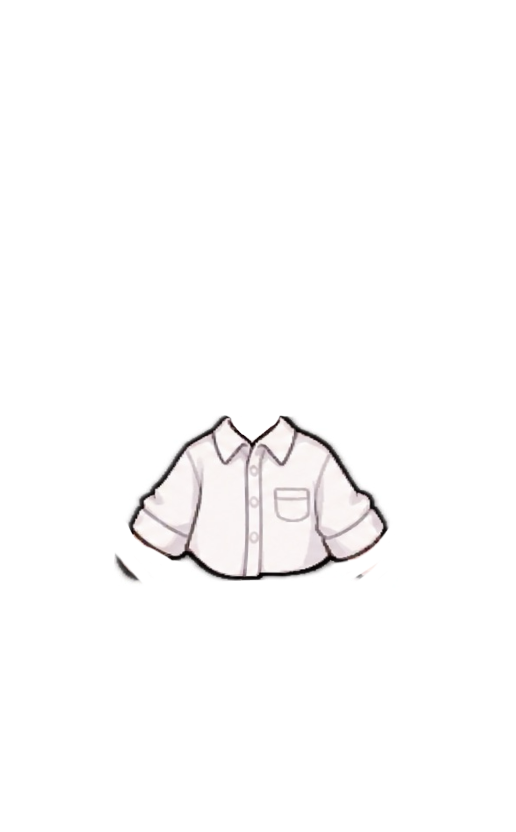
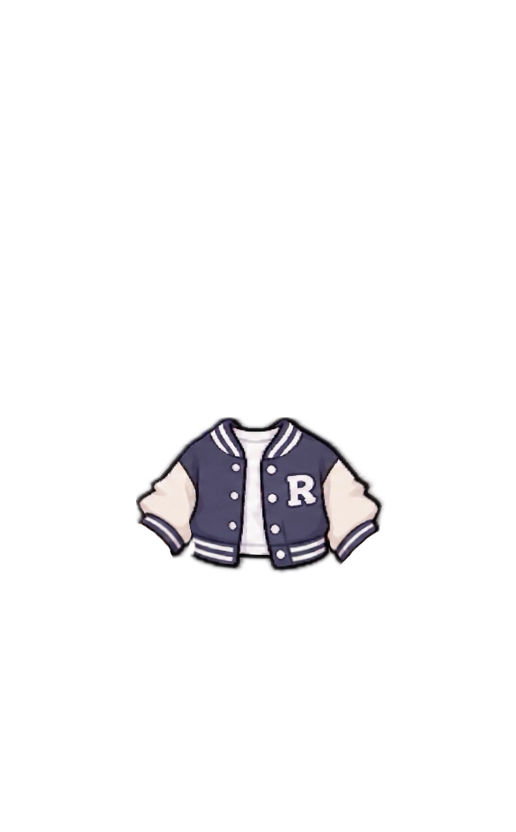
기본 흰 셔츠를 선생님이 그린 셔츠로 바꿈(옛 셔츠 지움) / '장신구' 칸 새로: 무지개 별 날개·공룡 꼬리(몸 뒤), 리본 망토(상의 위) / 신발 2개(흰·하늘 리본 운동화)
Claude-Session: https://claude.ai/code/session_015VxnKS3baGbwJXJNNp74ix

Changed region(s): [[0.2481, 0.5, 0.7752, 0.7188], [0.2481, 0.6875, 0.2791, 0.7188], [0.2171, 0.6562, 0.2481, 0.6875]]

diff --git a/avatar.js b/avatar.js
@@ -12,32 +12,35 @@ const AV_NAMES = {
   hair: ["앞머리 양 똥머리", "앞머리 똥머리", "어깨 웨이브", "양 갈래 머리", "앞머리 단발", "가르마 짧은 머리", "쉼표 머리", "앞머리 긴 웨이브", "삐죽 머리", "곱슬 머리", "올린 삐죽 머리", "옆 가르마 머리", "산타 모자", "상어 모자", "양 갈래 땋은 머리", "양 갈래 웨이브", "까까머리", "긴 생머리", "앞머리 웨이브", "부스스 머리", "번개 스포츠머리", "레게 머리", "울프컷", "모히칸"],
   top: ["세일러 블라우스", "크림 후드티", "검정 재킷", "분홍 가디건", "고양이 후드티", "흰 셔츠", "곰돌이 니트", "검정 프릴 블라우스", "줄무늬 티", "하얀 패딩", "빨간 망토", "카키 야상", "멜빵 원피스", "검정 후드티", "레이스 블라우스", 
     "검정 도복", "가죽 재킷", "산타 옷", "산타 원피스", "요정 옷", "눈사람 옷", "진저브레드 옷", "루돌프 옷", "트리 스웨터 잠옷", "호두까기 인형 옷", "의사 가운 세트", "요리사 세트", "멜빵바지 세트", "승무원 세트", "기장 세트", 
-    "가디건 세트", "흰 가운 세트", "흰 도복 세트", "빨간 로봇 슈트", "소방관 옷", "우주인 점퍼", "군복 셔츠", "요리사 옷", "경찰 제복", "의사 가운", "야구 유니폼", "탐험가 셔츠", "승무원 재킷", "갈색 가디건", "컵케이크 앞치마", "검정 도복 세트", "농구 유니폼", "공룡 잠옷", "소방관 세트", "경찰 세트", "레이싱 슈트", "조종사 슈트", "우주복", "하트 꽈배기 가디건", "체크 교복 재킷", "민트 꽃 블라우스", "보라 별 가디건", "분홍 하트 재킷", "백설 공주 옷", "얼음 공주 옷", "세일러 교복", "흰 패딩", "곰돌이 스웨터", "하늘 줄무늬 티", "흰 셔츠 새것", "남색 야구 점퍼"],
-  shoes: ["맨발", "검정 운동화", "카모 운동화", "파랑 하이탑", "빨강 농구화", "별 운동화", "공룡 발 슬리퍼", "체크 슬립온", "축구화", "검정 로퍼", "토끼 슬리퍼", "갈색 메리제인", "하늘 실내화", "민트 하이탑", "산타 부츠", "분홍 하이탑", "병아리 슬리퍼", "털 부츠", "곰돌이 슬리퍼", "흰 카우보이 부츠", "분홍 장화", "검정 워커", "분홍 캔버스화", "하늘 리본 구두", "보라 리본 구두"],
+    "가디건 세트", "흰 가운 세트", "흰 도복 세트", "빨간 로봇 슈트", "소방관 옷", "우주인 점퍼", "군복 셔츠", "요리사 옷", "경찰 제복", "의사 가운", "야구 유니폼", "탐험가 셔츠", "승무원 재킷", "갈색 가디건", "컵케이크 앞치마", "검정 도복 세트", "농구 유니폼", "공룡 잠옷", "소방관 세트", "경찰 세트", "레이싱 슈트", "조종사 슈트", "우주복", "하트 꽈배기 가디건", "체크 교복 재킷", "민트 꽃 블라우스", "보라 별 가디건", "분홍 하트 재킷", "백설 공주 옷", "얼음 공주 옷", "세일러 교복", "흰 패딩", "곰돌이 스웨터", "하늘 줄무늬 티", "남색 야구 점퍼"],
+  shoes: ["맨발", "검정 운동화", "카모 운동화", "파랑 하이탑", "빨강 농구화", "별 운동화", "공룡 발 슬리퍼", "체크 슬립온", "축구화", "검정 로퍼", "토끼 슬리퍼", "갈색 메리제인", "하늘 실내화", "민트 하이탑", "산타 부츠", "분홍 하이탑", "병아리 슬리퍼", "털 부츠", "곰돌이 슬리퍼", "흰 카우보이 부츠", "분홍 장화", "검정 워커", "분홍 캔버스화", "하늘 리본 구두", "보라 리본 구두", "흰 리본 운동화", "하늘 리본 운동화"],
   eye: ["기본 눈", "날렵한 눈", "졸린 눈", "웃는 눈", "윙크", "반짝 눈", "울먹 눈", "화난 눈", "옆 보는 눈", "걱정 눈", "놀란 눈", "시큰둥 눈", "하트 눈", "빙글빙글 눈", "속눈썹 눈", "점 눈", "초롱 눈", "울먹 초롱 눈", "질끈 눈", "웃는 초롱 눈", "초롱 윙크", "졸린 초롱 눈"],
   cheek: ["볼터치 없음", "볼 정중앙", "콧잔등 + 주근깨", "볼 정중앙 + 주근깨", "빗금 볼터치", "작은 동그라미", "콧잔등", "크게 발그레"],
   mouth: ["미소", "활짝 웃는 입", "고양이 입", "작은 입", "시무룩 입", "삐뚤 입", "씩 웃는 입", "메롱", "이 보이게 웃기", "놀란 입", "뽀뽀 입", "일자 입", "송곳니 웃음", "울먹 입", "크게 웃는 입", "쪽 입", "살짝 미소", "삐죽 입"],
   bottom: ["하늘 주름치마", "검정 주름치마", "베이지 반바지", "청반바지", "검정 카고 바지", "회색 운동복 바지", "남색 트레이닝 바지", "분홍 체크 치마", "카키 반바지", "체인 치마", "체크 바지", "연청 반바지", "베이지 카고 반바지", 
     "빨간 운동 반바지", "남색 치마", "체크무늬 반바지", "회색 반바지", "줄무늬 야구 반바지", "물감 청반바지", "갈색 리본 치마", "검정 하트 주름치마", "하늘 주름치마 새것", "베이지 끈 반바지", "별 청반바지", "검정 카고 조거", "회색 트레이닝 바지"],
 };
+AV_NAMES.acc = ["장신구 없음", "무지개 별 날개", "리본 망토", "공룡 꼬리"]; // acc-0은 그림 없음
 AV_NAMES.pet = ["펫 없음", "강아지", "삼색 고양이", "토끼", "햄스터", "아기 펭귄", "아기 공룡", "날개 고양이", "아기 드래곤", "천사 별", "달 고양이", "꼬마 로봇", "불새",
   "루돌프", "눈사람", "트리", "진저브레드", "산타 강아지", "북극곰", "천사 종", "스웨터 펭귄"]; // pet-0은 그림 없음
 const AV_PRICE = { // 0이면 무료 (기본으로 입는 것)
+  acc: [0, 14, 12, 10],
   pet: [0, 12, 12, 12, 12, 12, 14, 16, 18, 16, 16, 18, 20, 14, 14, 14, 14, 15, 15, 16, 15],
   hair: [9, 8, 8, 8, 0, 6, 6, 8, 0, 8, 7, 6, 10, 10, 9, 9, 5, 8, 9, 7, 8, 9, 8, 8],
-  top: [8, 7, 9, 7, 9, 0, 8, 9, 0, 9, 10, 9, 9, 8, 10, 10, 11, 14, 14, 14, 13, 13, 13, 12, 14, 12, 12, 11, 12, 12, 10, 12, 11, 12, 10, 12, 9, 10, 10, 11, 10, 9, 10, 8, 9, 11, 9, 13, 12, 12, 13, 12, 14, 9, 11, 10, 9, 11, 12, 12, 10, 11, 9, 7, 6, 10],
-  shoes: [0, 0, 6, 6, 7, 6, 8, 6, 7, 6, 8, 7, 5, 6, 8, 6, 8, 9, 8, 9, 7, 9, 6, 7, 7],
+  top: [8, 7, 9, 7, 9, 0, 8, 9, 0, 9, 10, 9, 9, 8, 10, 10, 11, 14, 14, 14, 13, 13, 13, 12, 14, 12, 12, 11, 12, 12, 10, 12, 11, 12, 10, 12, 9, 10, 10, 11, 10, 9, 10, 8, 9, 11, 9, 13, 12, 12, 13, 12, 14, 9, 11, 10, 9, 11, 12, 12, 10, 11, 9, 7, 10],
+  shoes: [0, 0, 6, 6, 7, 6, 8, 6, 7, 6, 8, 7, 5, 6, 8, 6, 8, 9, 8, 9, 7, 9, 6, 7, 7, 6, 6],
   eye: Array(22).fill(0),
   mouth: Array(18).fill(0),
   cheek: Array(8).fill(0),
   bottom: [6, 6, 0, 0, 7, 6, 7, 7, 0, 8, 7, 6, 6, 6, 7, 8, 6, 8, 9, 7, 8, 6, 6, 7, 8, 7],
 };
 const AV_ITEMS = Object.entries(AV_NAMES).flatMap(([slot, names]) => names.map((name, i) => ({ id: `${slot}-${i}`, slot, name, price: AV_PRICE[slot][i], img: `av/${slot}-${i}.png` })));
-const AV_REQ = { pet: "pet-0", shoes: "shoes-1", eye: "eye-0", mouth: "mouth-0", cheek: "cheek-1", hair: "hair-8", top: "top-5", bottom: "bottom-8" }; // 기본 옷 (흰 셔츠·카키 반바지·민트 운동화). 이 칸들은 벗을 수 없어 늘 입고 있음
-const AV_ACC = []; // 장신구 칸 (아직 없음)
-const AV_TABS = [["eye", "눈"], ["mouth", "입"], ["cheek", "볼터치"], ["hair", "헤어"], ["top", "상의"], ["bottom", "하의"], ["full", "한벌"], ["shoes", "신발"], ["pet", "펫"]];
+const AV_REQ = { acc: "acc-0", pet: "pet-0", shoes: "shoes-1", eye: "eye-0", mouth: "mouth-0", cheek: "cheek-1", hair: "hair-8", top: "top-5", bottom: "bottom-8" }; // 기본 옷 (흰 셔츠(선생님이 그린 것)·카키 반바지·민트 운동화). 이 칸들은 벗을 수 없어 늘 입고 있음
+const AV_ACC = ["acc"]; // 장신구 칸
+const AV_BACK = new Set(["acc-1", "acc-3"]); // 몸보다 뒤에 그리는 장신구 (날개·꼬리). 나머지(망토)는 상의 위
+const AV_TABS = [["eye", "눈"], ["mouth", "입"], ["cheek", "볼터치"], ["hair", "헤어"], ["top", "상의"], ["bottom", "하의"], ["full", "한벌"], ["shoes", "신발"], ["acc", "장신구"], ["pet", "펫"]];
 const AV_FULL = new Set(["top-50","top-51","top-52","top-45","top-47","top-48","top-49","top-17","top-18","top-19","top-20","top-21","top-22","top-23","top-24","top-25","top-26","top-27","top-28","top-29","top-30","top-31","top-32"]); // 위아래 한 벌 옷: 입으면 하의를 안 그림. 가게에서는 '한벌' 칸
-const AV_V = "?v=39"; // 그림을 고치면 숫자를 올림 (브라우저에 남은 옛 그림 대신 새로 받게)
+const AV_V = "?v=40"; // 그림을 고치면 숫자를 올림 (브라우저에 남은 옛 그림 대신 새로 받게)
 const AV_HAT = new Set(["hair-12", "hair-13"]); // 모자·헬멧 (헤어 칸): 머리색을 안 칠함, 귀도 안 올림
 const AV_HIDE = new Set(["shoes-0"]); // 가게에 안 보이는 것 (맨발: 그림 없음)
 const avInTab = (it, k) => !AV_HIDE.has(it.id) && (k === "acc" ? AV_ACC.includes(it.slot) : k === "full" ? AV_FULL.has(it.id) : k === "top" ? it.slot === "top" && !AV_FULL.has(it.id) : it.slot === k); // 가게 칸에 보일 물건
@@ -51,7 +54,7 @@ const avWear = (wear = {}) => ({ ...AV_REQ, ...Object.fromEntries(Object.entries
 // av = { skin, hc(머리색 번호), cc(볼색 번호) }, wear = { pet, cheek, eye, mouth, hair, top, bottom } → 겹친 그림 (div 하나)
 // 처음 그릴 때 모든 그림을 미리 받아 풀어 둠: 색·옷을 바꿀 때 새 <img>가 잠깐 비었다가 뜨지 않게 (Image를 잡아 둬야 풀린 채로 남음)
 let avPre = null;
-const avPreload = () => avPre ||= [...AV_SKIN.map((_, i) => `av/base-${i}.png`), ...AV_ITEMS.filter(it => it.id !== "pet-0" && it.id !== "shoes-0").map(it => it.img), ...AV_ITEMS.filter(it => it.slot === "hair" && !AV_HAT.has(it.id)).map(it => it.img.replace(".png", "-g.png")), ...AV_FRECK.map(i => `av/cheek-${i}-f.png`), ...AV_SKIN.map((_, i) => `av/ear-${i}.png`)]
+const avPreload = () => avPre ||= [...AV_SKIN.map((_, i) => `av/base-${i}.png`), ...AV_ITEMS.filter(it => it.id !== "pet-0" && it.id !== "shoes-0" && it.id !== "acc-0").map(it => it.img), ...AV_ITEMS.filter(it => it.slot === "hair" && !AV_HAT.has(it.id)).map(it => it.img.replace(".png", "-g.png")), ...AV_FRECK.map(i => `av/cheek-${i}-f.png`), ...AV_SKIN.map((_, i) => `av/ear-${i}.png`)]
   .map(s => { const im = new Image(); im.src = s + AV_V; im.decode?.().catch(() => {}); return im; });
 function avPic(av, wear = {}) {
   avPreload();
@@ -61,5 +64,6 @@ function avPic(av, wear = {}) {
   const ck = avItem(w.cheek).img, cn = +w.cheek.split("-")[1];
   const cheekL = !cn ? "" : `<i style="background:${AV_CHEEK[cc][0]};-webkit-mask-image:url(${ck}${AV_V});mask-image:url(${ck}${AV_V})"></i>` + (AV_FRECK.includes(cn) ? img(ck.replace(".png", "-f.png")) : "");
   // .avp = 펫 칸(378×426), 그 안의 .avb = 아바타 칸(258×386, 위 40·왼쪽 60 띄움). 펫 그림은 펫 칸 크기
-  return `<div class="avp" aria-hidden="true"><div class="avb">${w.shoes !== "shoes-0" ? img(`av/base-${skin}.png`).replace("<img", '<img style="clip-path:inset(0 0 2.6% 0)"') : img(`av/base-${skin}.png`)}${cheekL}${w.shoes !== "shoes-0" ? img(avItem(w.shoes).img) : ""}${[avItem(w.eye).img, avItem(w.mouth).img, !AV_FULL.has(w.top) && avItem(w.bottom).img, avItem(w.top).img].filter(Boolean).map(img).join("")}${hairL}${AV_EAR.has(+w.hair.split("-")[1]) ? img(`av/ear-${skin}.png`) : ""}</div>${w.pet !== "pet-0" ? img(avItem(w.pet).img) : ""}</div>`;
+  const acc = w.acc !== "acc-0" && avItem(w.acc)?.img;
+  return `<div class="avp" aria-hidden="true"><div class="avb">${acc && AV_BACK.has(w.acc) ? img(acc) : ""}${w.shoes !== "shoes-0" ? img(`av/base-${skin}.png`).replace("<img", '<img style="clip-path:inset(0 0 2.6% 0)"') : img(`av/base-${skin}.png`)}${cheekL}${w.shoes !== "shoes-0" ? img(avItem(w.shoes).img) : ""}${[avItem(w.eye).img, avItem(w.mouth).img, !AV_FULL.has(w.top) && avItem(w.bottom).img, avItem(w.top).img, acc && !AV_BACK.has(w.acc) && acc].filter(Boolean).map(img).join("")}${hairL}${AV_EAR.has(+w.hair.split("-")[1]) ? img(`av/ear-${skin}.png`) : ""}</div>${w.pet !== "pet-0" ? img(avItem(w.pet).img) : ""}</div>`;
 }

diff --git a/index.html b/index.html
@@ -1668,7 +1668,7 @@
     <button class="danger" onclick="resetEverything()">모든 데이터 초기화</button>
   </section>
 </div>
-<script src="avatar.js?v=39"></script><!-- 아바타를 고치면 avatar.js의 AV_V와 같이 숫자를 올림 -->
+<script src="avatar.js?v=40"></script><!-- 아바타를 고치면 avatar.js의 AV_V와 같이 숫자를 올림 -->
 <script>
 setTimeout(() => document.body.classList.add("ready"), 2000); // 혹시 아래에서 오류가 나도 2초 뒤엔 카드를 보여 줌
 // 다른 창(듀얼 모니터)으로 뗀 카드: { 카드: { w: 창, c: 카드, mark: 보드에 돌아올 자리, np: 글자 도구 창 } }

diff --git a/student.html b/student.html
@@ -159,7 +159,7 @@
     </div>
   </div>
 </div>
-<script src="avatar.js?v=39"></script><!-- 아바타를 고치면 avatar.js의 AV_V와 같이 숫자를 올림 -->
+<script src="avatar.js?v=40"></script><!-- 아바타를 고치면 avatar.js의 AV_V와 같이 숫자를 올림 -->
 <script type="module">
 // 서버: classes/{반 코드} = { unit, prices } · classes/{반 코드}/kids/{번호}-{비밀번호} = { n, pt, av, wear, own, buys, kidAt } (이름 없음)
 // 점수는 선생님 보드만 바꿈. 가게 물건은 입어 보기만 하다가 저장할 때 삼(buys에 남김). 선생님 보드가 받아서 점수를 뺌
